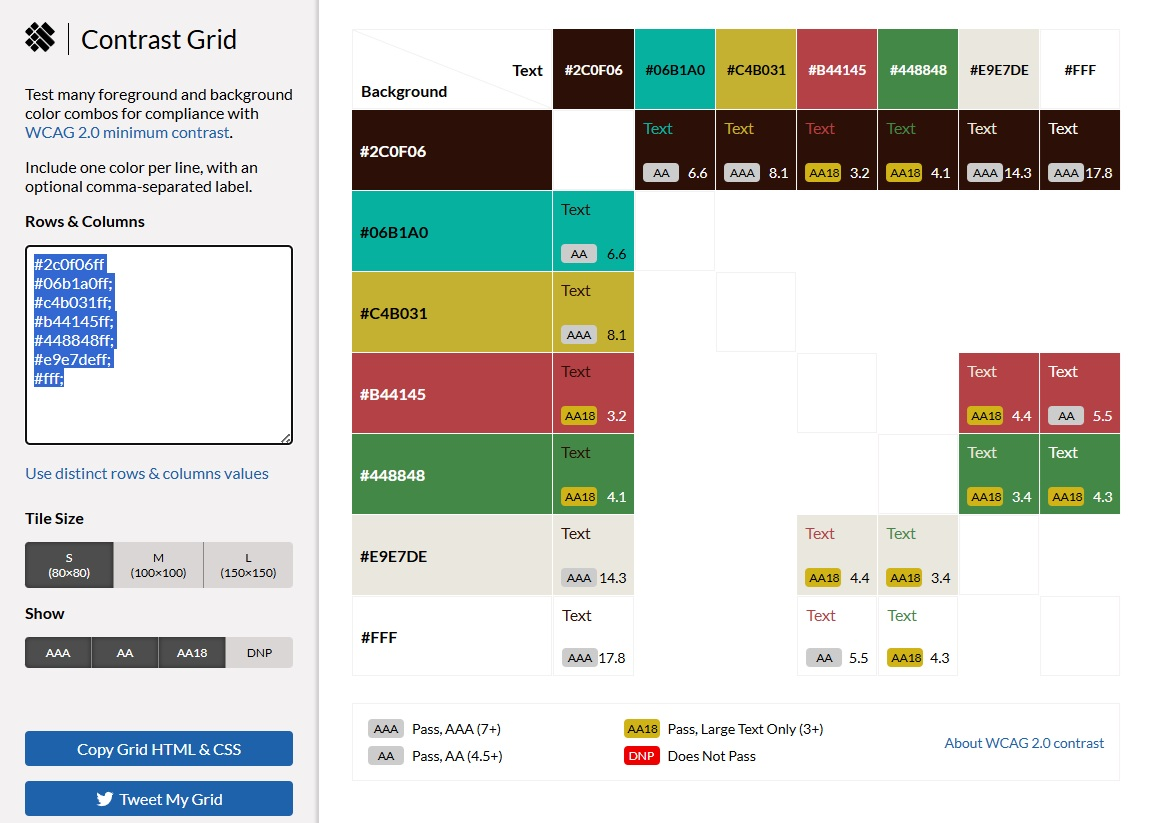
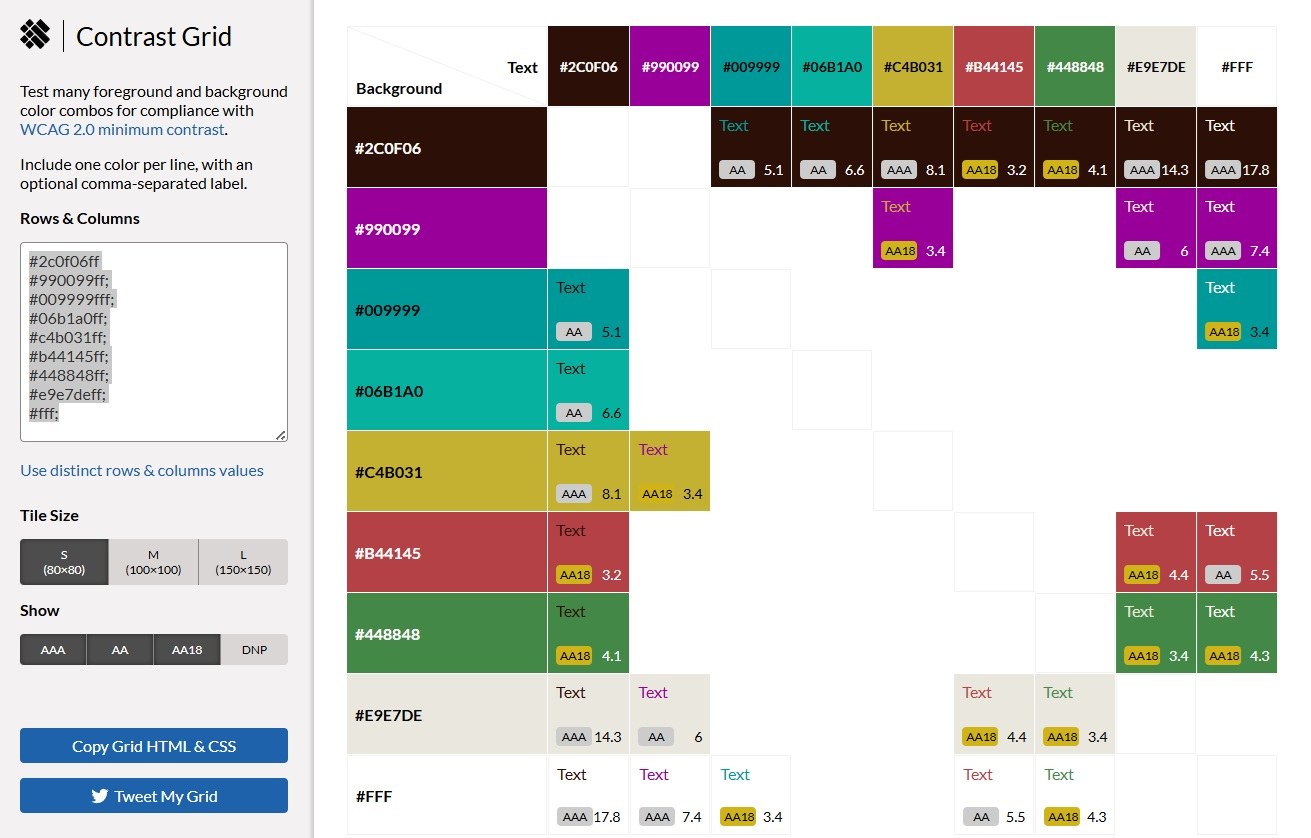
add colour details to readme

diff --git a/static/css/style.css b/static/css/style.css
@@ -3,3 +3,23 @@
 'Montserrat Alternatives' for majority of text 
 */
 @import url('https://fonts.googleapis.com/css2?family=Dancing+Script:wght@700&family=Montserrat+Alternates:ital,wght@0,400;0,500;0,600;0,700;0,800;1,400;1,500;1,600;1,700;1,800&display=swap');
+
+/* Variables */
+:root {
+    --primary-font:'Montserrat Alternates', sans-serif;
+    --heading-font: 'Dancing Script', sans-serif;
+    --primary-background-color: #fff;
+    --primary-text-color: #2c0f06;
+    --hyperlink-color: #990099;
+    --hyperlink-hover-color: #009999;
+    --decorative-color: #06b1a0; 
+    --background-highlight-color: #c4b031;
+    --error-color: #b44145; 
+    --success-color: #448848; 
+    --shadow-color: #e9e7de;
+}
+
+/* Generic style rules*/
+html{
+    font-size: 10px;
+}